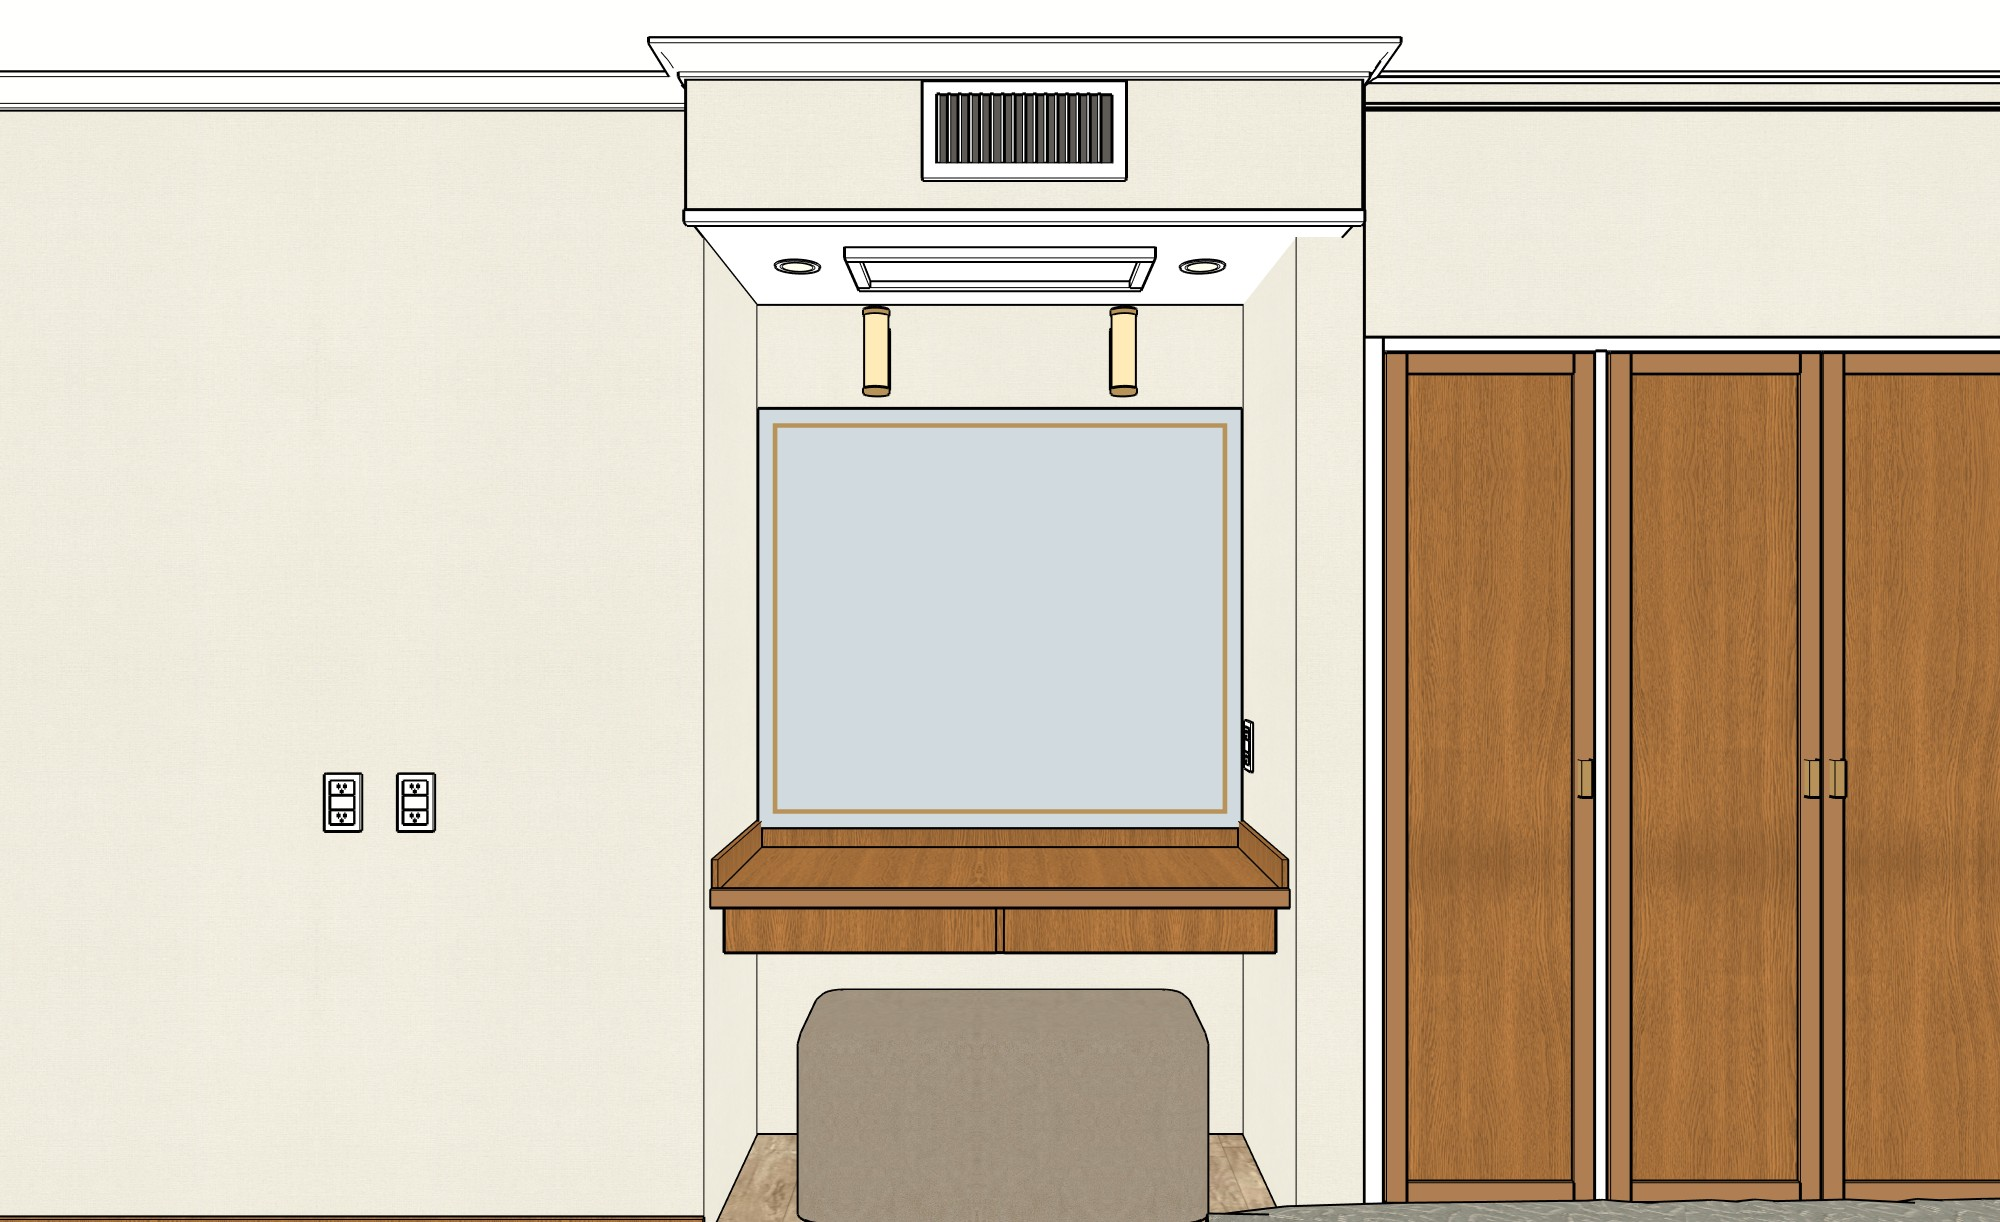
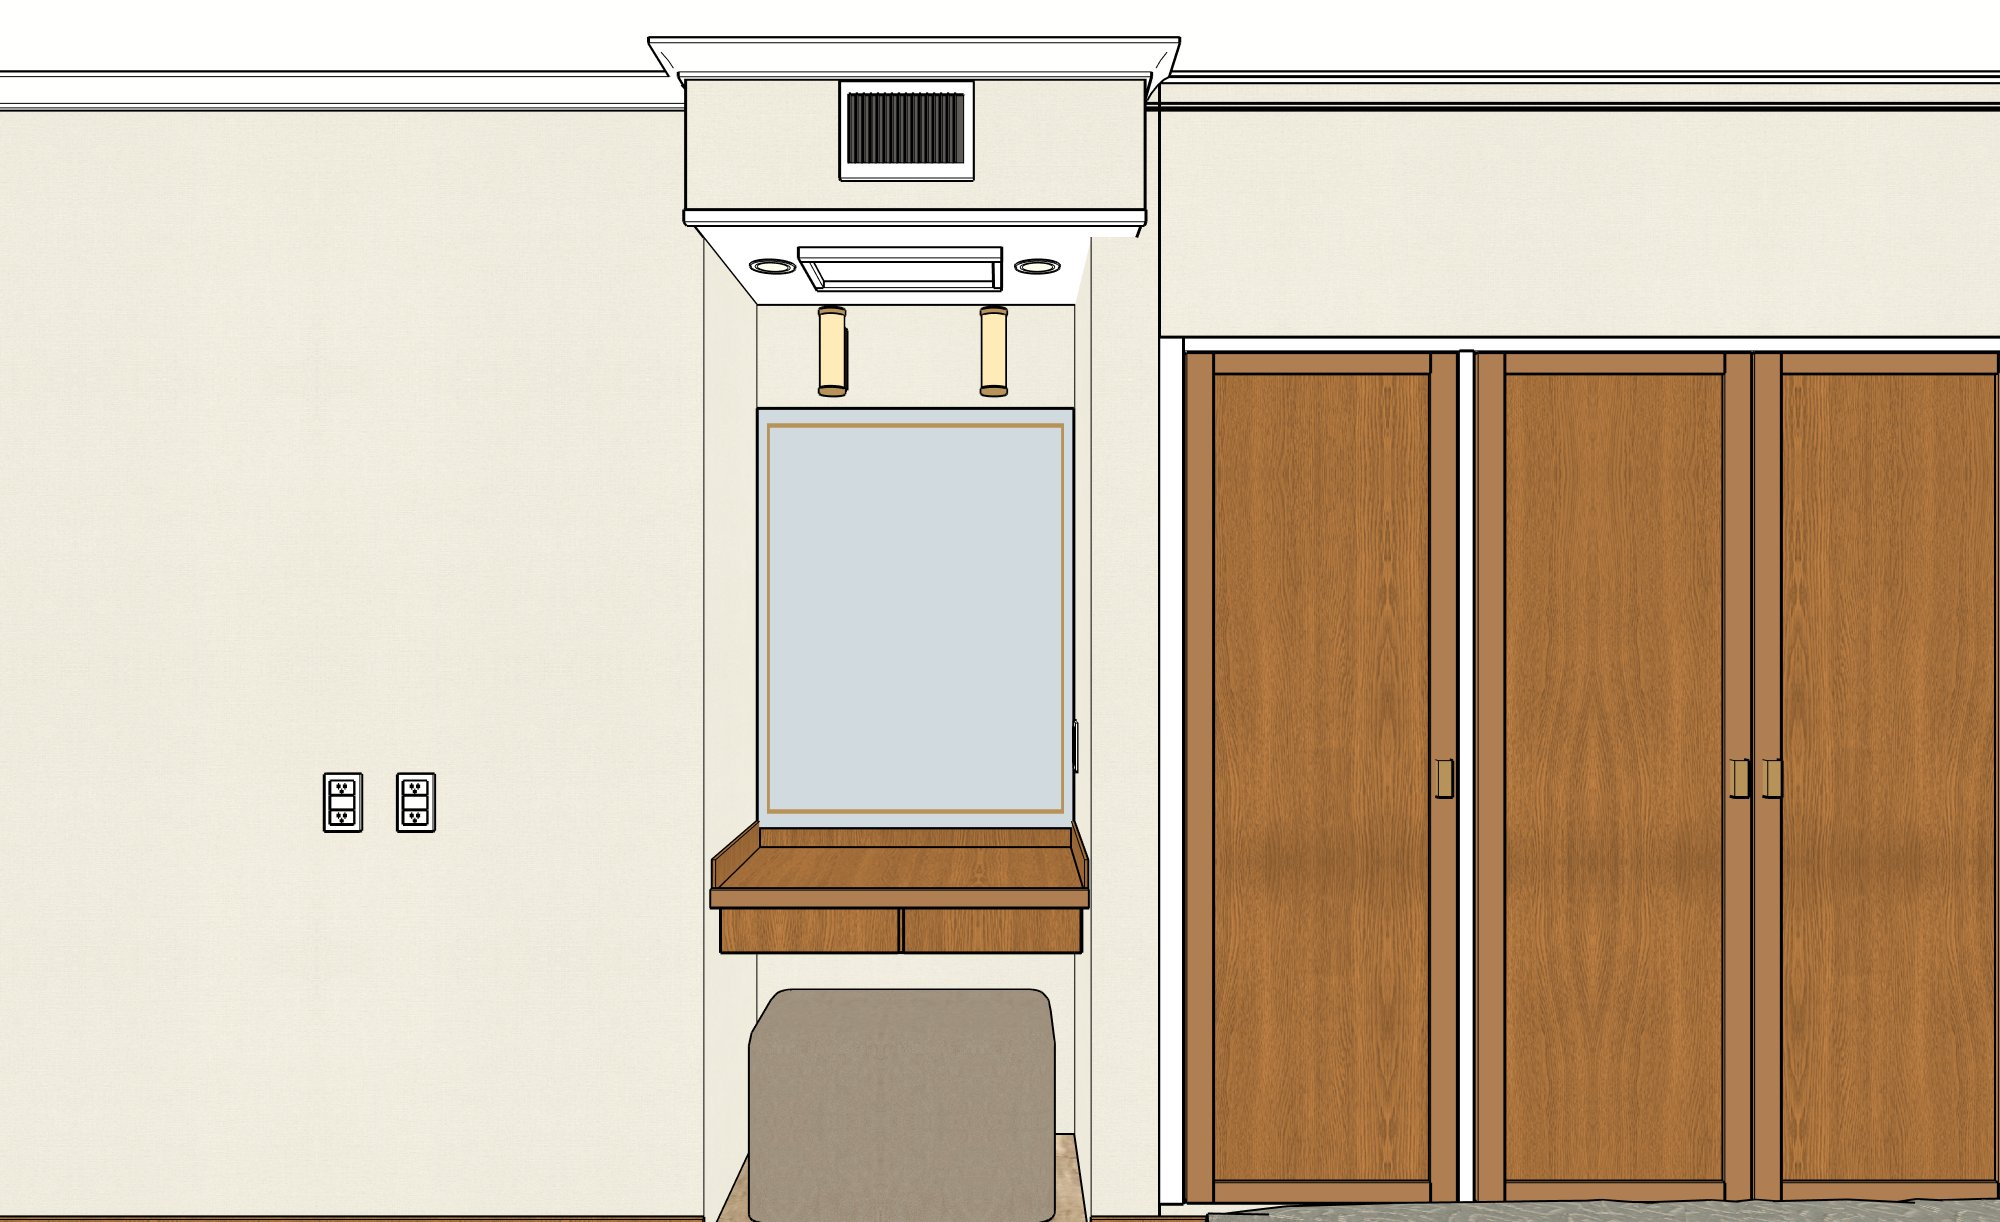
Anteproyecto 201 modelado: placard 1,95 y nicho vanity 0,85 según plano, banqueta 0,70, sin banqueta Iron

diff --git a/propuestas/hotel-land-express/proyecto/201/index.html b/propuestas/hotel-land-express/proyecto/201/index.html
@@ -885,7 +885,7 @@
   <div class="fl">Arq. Clara Tacco Carulli &amp; D.I. Lucía Da Silva</div><div class="fr">Cliente · Hotel Land Express</div>
   <div class="t rv"><h1>Modelado 3D <span>· Vanity, antebaño y coffee</span></h1><div class="s">Opción completa</div></div>
   <div class="pad"><div class="rnd full">
-    <div class="frame has"><div class="pic" style="--ar:1.637"><img src="img/A_vanity.jpg" alt="Modelado 3D Vanity, antebaño y coffee"><img class="altimg" data-o="1" src="img/A_vanity_iron.jpg" alt="Modelado 3D Vanity, antebaño y coffee · opción Iron"><div class="opt"><span>Ver</span><button class="on" data-o="0">A medida<small>banqueta</small></button><button data-o="1">Iron<small>Dellacasa</small></button></div></div></div>
+    <div class="frame has"><div class="pic" style="--ar:1.637"><img src="img/A_vanity.jpg" alt="Modelado 3D Vanity, antebaño y coffee"></div></div>
   </div></div>
   <div class="num"></div>
 </section>
@@ -895,7 +895,7 @@
   <div class="t"><h1>Modelado 3D <span>· Vanity, antebaño y coffee</span></h1><div class="s">Opción completa · ítem por ítem</div></div>
   <div class="pad"><div class="rnd pins">
     <div class="frame has"><div class="pic" style="--ar:1.637"><img src="img/A_vanity.jpg" alt="Modelado 3D Vanity, antebaño y coffee"></div></div>
-    <div class="side"><div class="z rv" style="--d:.15s">Zona</div><h3 class="rv" style="--d:.2s">Qué lleva</h3><div class="objs"><figure class="rv" data-k="0" style="--d:0.30s"><div class="ph" style="background-image:url('img/o_vinilo.jpg')"></div><figcaption><b>1</b>Vinilo marco dorado de 12 mm sobre los espejos del vanity y del antebaño</figcaption></figure><figure class="rv" data-k="1" style="--d:0.42s"><div class="ph" style="background-image:url('img/c_banqueta.jpg')"></div><figcaption><b>2</b>Banqueta a medida, tapizada (Tucson Sand en A, Tucson Beige en B)</figcaption></figure><figure class="rv" data-k="2" style="--d:0.54s"><div class="ph" style="background-image:url('img/o_iron.jpg')"></div><figcaption><b>3</b>Variante estandarizada · Banqueta Iron (Dellacasa), 1,10 × 0,44 × h 0,46, patas de hierro</figcaption><a class="lnk" href="https://dellacasa.com.ar/producto/dormitorio/pie-de-cama/banqueta-iron/" target="_blank" rel="noopener">Ver producto ↗</a></figure><figure class="rv" data-k="3" style="--d:0.66s"><div class="ph" style="background-image:url('img/c_apliques.jpg')"></div><figcaption><b>4</b>Apliques verticales tubo opal con base dorada, Ø 0,06 × 0,21, luz cálida</figcaption></figure><figure class="rv" data-k="4" style="--d:0.78s"><div class="ph" style="background-image:url('img/c_coffee.jpg')"></div><figcaption><b>5</b>Coffee station completa en melamina Lino Chiaro (Faplac), con spot de luz cálida</figcaption></figure></div></div>
+    <div class="side"><div class="z rv" style="--d:.15s">Zona</div><h3 class="rv" style="--d:.2s">Qué lleva</h3><div class="objs"><figure class="rv" data-k="0" style="--d:0.30s"><div class="ph" style="background-image:url('img/o_vinilo.jpg')"></div><figcaption><b>1</b>Vinilo marco dorado de 12 mm sobre los espejos del vanity y del antebaño</figcaption></figure><figure class="rv" data-k="1" style="--d:0.42s"><div class="ph" style="background-image:url('img/c_banqueta.jpg')"></div><figcaption><b>2</b>Banqueta a medida de 0,70 de ancho, tapizada (Tucson Sand en A, Tucson Beige en B). Entra en el nicho del vanity, que mide 0,85</figcaption></figure><figure class="rv" data-k="2" style="--d:0.54s"><div class="ph" style="background-image:url('img/c_apliques.jpg')"></div><figcaption><b>3</b>Apliques verticales tubo opal con base dorada, Ø 0,06 × 0,21, luz cálida</figcaption></figure><figure class="rv" data-k="3" style="--d:0.66s"><div class="ph" style="background-image:url('img/c_coffee.jpg')"></div><figcaption><b>4</b>Coffee station completa en melamina Lino Chiaro (Faplac), con spot de luz cálida</figcaption></figure></div></div>
   </div></div>
   <div class="num"></div>
 </section>
@@ -904,7 +904,7 @@
   <div class="fl">Arq. Clara Tacco Carulli &amp; D.I. Lucía Da Silva</div><div class="fr">Cliente · Hotel Land Express</div>
   <div class="t rv"><h1>Modelado 3D <span>· Vanity, antebaño y coffee</span></h1><div class="s">Opción esencial</div></div>
   <div class="pad"><div class="rnd full">
-    <div class="frame has"><div class="pic" style="--ar:1.637"><img src="img/B_vanity.jpg" alt="Modelado 3D Vanity, antebaño y coffee"><img class="altimg" data-o="1" src="img/B_vanity_iron.jpg" alt="Modelado 3D Vanity, antebaño y coffee · opción Iron"><div class="opt"><span>Ver</span><button class="on" data-o="0">A medida<small>banqueta</small></button><button data-o="1">Iron<small>Dellacasa</small></button></div></div></div>
+    <div class="frame has"><div class="pic" style="--ar:1.637"><img src="img/B_vanity.jpg" alt="Modelado 3D Vanity, antebaño y coffee"></div></div>
   </div></div>
   <div class="num"></div>
 </section>
@@ -914,7 +914,7 @@
   <div class="t"><h1>Modelado 3D <span>· Vanity, antebaño y coffee</span></h1><div class="s">Opción esencial · ítem por ítem</div></div>
   <div class="pad"><div class="rnd pins">
     <div class="frame has"><div class="pic" style="--ar:1.637"><img src="img/B_vanity.jpg" alt="Modelado 3D Vanity, antebaño y coffee"></div></div>
-    <div class="side"><div class="z rv" style="--d:.15s">Zona</div><h3 class="rv" style="--d:.2s">Qué lleva</h3><div class="objs"><figure class="rv" data-k="0" style="--d:0.30s"><div class="ph" style="background-image:url('img/o_vinilo.jpg')"></div><figcaption><b>1</b>Vinilo marco dorado de 12 mm sobre los espejos del vanity y del antebaño</figcaption></figure><figure class="rv" data-k="1" style="--d:0.42s"><div class="ph" style="background-image:url('img/c_banqueta.jpg')"></div><figcaption><b>2</b>Banqueta a medida, tapizada (Tucson Sand en A, Tucson Beige en B)</figcaption></figure><figure class="rv" data-k="2" style="--d:0.54s"><div class="ph" style="background-image:url('img/o_iron.jpg')"></div><figcaption><b>3</b>Variante estandarizada · Banqueta Iron (Dellacasa), 1,10 × 0,44 × h 0,46, patas de hierro</figcaption><a class="lnk" href="https://dellacasa.com.ar/producto/dormitorio/pie-de-cama/banqueta-iron/" target="_blank" rel="noopener">Ver producto ↗</a></figure><figure class="rv" data-k="3" style="--d:0.66s"><div class="ph" style="background-image:url('img/c_apliques.jpg')"></div><figcaption><b>4</b>Apliques verticales tubo opal con base dorada, Ø 0,06 × 0,21, luz cálida</figcaption></figure><figure class="rv" data-k="4" style="--d:0.78s"><div class="ph" style="background-image:url('img/c_coffee.jpg')"></div><figcaption><b>5</b>Coffee station completa en melamina Lino Chiaro (Faplac), con spot de luz cálida</figcaption></figure></div></div>
+    <div class="side"><div class="z rv" style="--d:.15s">Zona</div><h3 class="rv" style="--d:.2s">Qué lleva</h3><div class="objs"><figure class="rv" data-k="0" style="--d:0.30s"><div class="ph" style="background-image:url('img/o_vinilo.jpg')"></div><figcaption><b>1</b>Vinilo marco dorado de 12 mm sobre los espejos del vanity y del antebaño</figcaption></figure><figure class="rv" data-k="1" style="--d:0.42s"><div class="ph" style="background-image:url('img/c_banqueta.jpg')"></div><figcaption><b>2</b>Banqueta a medida de 0,70 de ancho, tapizada (Tucson Sand en A, Tucson Beige en B). Entra en el nicho del vanity, que mide 0,85</figcaption></figure><figure class="rv" data-k="2" style="--d:0.54s"><div class="ph" style="background-image:url('img/c_apliques.jpg')"></div><figcaption><b>3</b>Apliques verticales tubo opal con base dorada, Ø 0,06 × 0,21, luz cálida</figcaption></figure><figure class="rv" data-k="3" style="--d:0.66s"><div class="ph" style="background-image:url('img/c_coffee.jpg')"></div><figcaption><b>4</b>Coffee station completa en melamina Lino Chiaro (Faplac), con spot de luz cálida</figcaption></figure></div></div>
   </div></div>
   <div class="num"></div>
 </section>

diff --git a/propuestas/hotel-land-express/proyecto/_build/data201.js b/propuestas/hotel-land-express/proyecto/_build/data201.js
@@ -100,11 +100,10 @@ module.exports = {
       ] },
 
     { zona: 'Vanity, antebaño y coffee', img: 'A_vanity.jpg', ar: R, alt: AB('A_vanity.jpg', 'B_vanity.jpg'), zt: 'Qué cambia', st: 'Vanity y antebaño',
-      items: ['En las dos: vinilo con marco dorado finito en los espejos del vanity y del antebaño.', 'Banqueta a medida o banqueta Iron (Dellacasa).', 'Coffee station en melamina Lino Chiaro (Faplac).'],
+      items: ['En las dos: vinilo con marco dorado finito en los espejos del vanity y del antebaño.', 'Banqueta a medida de 0,70, a la medida del nicho del vanity (0,85).', 'Coffee station en melamina Lino Chiaro (Faplac).'],
       pins: [
         { img: 'o_vinilo.jpg', t: 'Las dos · Vinilo marco dorado de 12 mm sobre los espejos del vanity y del antebaño' },
-        { img: 'c_banqueta.jpg', t: 'Las dos · Banqueta a medida, tapizada (Tucson Sand en A, Tucson Beige en B)' },
-        { img: 'o_iron.jpg', t: 'Las dos, opción estandarizada · Banqueta Iron (Dellacasa), 1,10 × 0,44 × h 0,46, patas de hierro', url: 'https://dellacasa.com.ar/producto/dormitorio/pie-de-cama/banqueta-iron/' },
+        { img: 'c_banqueta.jpg', t: 'Las dos · Banqueta a medida de 0,70 de ancho, tapizada (Tucson Sand en A, Tucson Beige en B). Entra en el nicho del vanity, que mide 0,85' },
         { img: 'c_apliques.jpg', t: 'Las dos · Apliques verticales tubo opal con base dorada, Ø 0,06 × 0,21, luz cálida' },
         { img: 'c_coffee.jpg', t: 'Las dos · Coffee station completa en melamina Lino Chiaro (Faplac), con spot de luz cálida' }
       ],
@@ -123,10 +122,7 @@ module.exports = {
       B: { t: 'Ver', a: 'Silla 687', as: 'a medida', opts: [{ img: 'B_esc_oslo.jpg', n: 'Silla Oslo', s: 'variante' }, { img: 'B_esc_ravello.jpg', n: 'Ravello', s: 'escritorio' }] } },
     'Living': {
       A: { t: 'Ver', a: 'Bold + Napoli', as: 'mesas Nina', opts: [{ img: 'A_liv_curvey.jpg', n: 'Sofá Curvey', s: 'variante' }, { img: 'A_liv_blau.jpg', n: 'Sillones Blau', s: 'variante' }, { img: 'A_liv_italian.jpg', n: 'Mesas Italian', s: 'variante' }] },
-      B: { t: 'Ver', a: 'Mesas Nina', as: 'negro mate', opts: [{ img: 'B_liv_italian.jpg', n: 'Mesas Italian', s: 'variante' }] } },
-    'Vanity, antebaño y coffee': {
-      A: { t: 'Ver', a: 'A medida', as: 'banqueta', opts: [{ img: 'A_vanity_iron.jpg', n: 'Iron', s: 'Dellacasa' }] },
-      B: { t: 'Ver', a: 'A medida', as: 'banqueta', opts: [{ img: 'B_vanity_iron.jpg', n: 'Iron', s: 'Dellacasa' }] } }
+      B: { t: 'Ver', a: 'Mesas Nina', as: 'negro mate', opts: [{ img: 'B_liv_italian.jpg', n: 'Mesas Italian', s: 'variante' }] } }
   },
 
   plantas: { zona: 'Plantas', h: 'Plantas con medidas', s: 'Completa y esencial, antes de recorrer los modelados', img: 'A_planta.jpg', ar: 1.467, alt: AB('A_planta.jpg', 'B_planta.jpg'), zt: 'Medidas', st: 'Planta de mobiliario',
